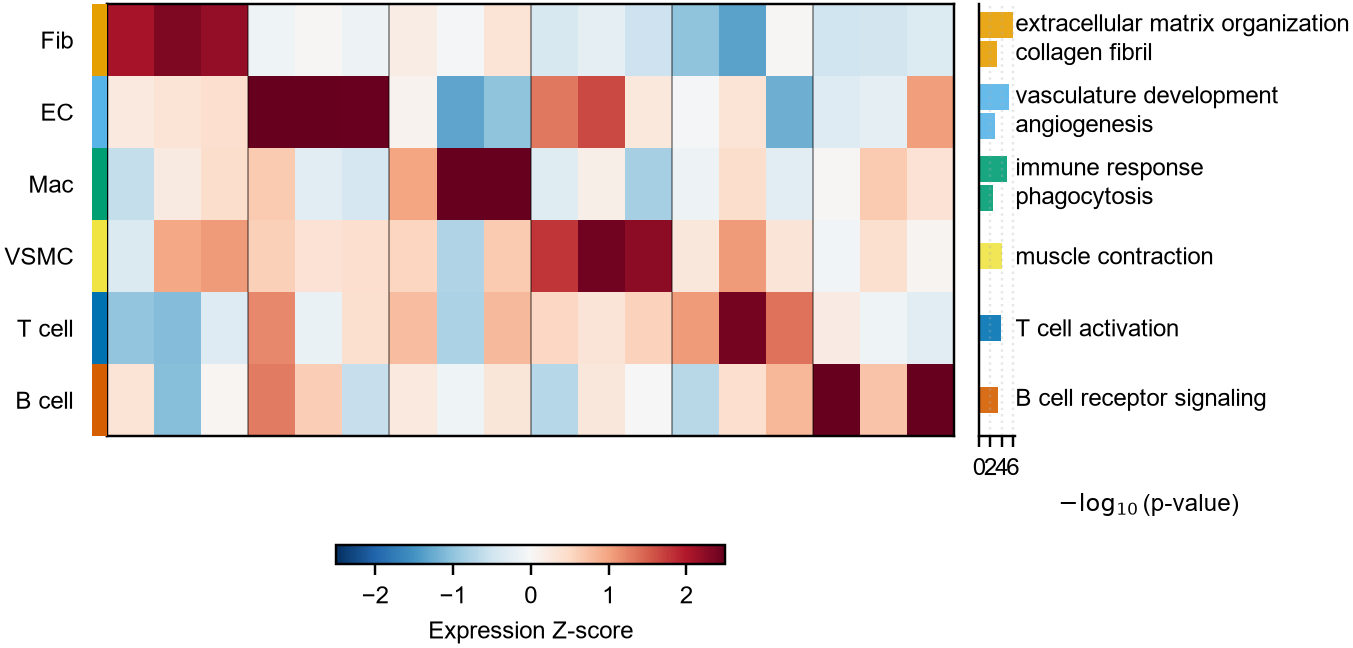
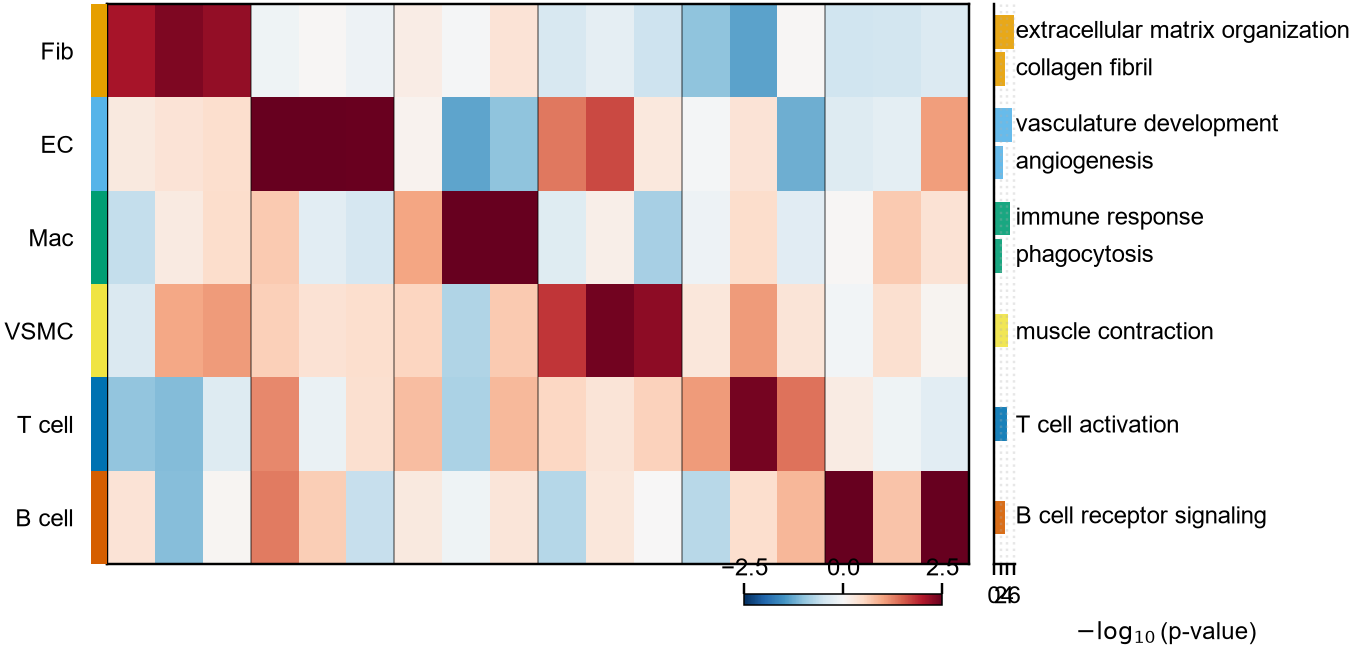
row_bars: 迷你色条(横向窄条锚热图下方, 刻度 min/0/max 条上方, in_layout=False)替换大 colorbar——不占独立列不增图宽

diff --git a/drawing_yh/heatmap/row_bars.py b/drawing_yh/heatmap/row_bars.py
@@ -218,10 +218,24 @@ def heatmap_with_row_bars(
         for x in np.cumsum(list(block_sizes))[:-1]:
             ax_heat.axvline(x - 0.5, color="k", lw=0.5, alpha=0.5)
 
-    cbar = fig.colorbar(im, ax=ax_heat, orientation="horizontal",
-                        fraction=0.045, pad=0.06, shrink=0.6)
-    cbar.set_label(cbar_label, fontsize=font)
-    cbar.ax.tick_params(labelsize=font)
+    # 迷你色条(2026-09-20 杨航): 横窄条贴右下角底缘, 无 label(caption 里说明), 刻度 min/0/max。
+    # 位置按英寸换算; 右下角通常是 -logp 刻度区, 无 term(文字在条区上方), 无冲突。
+    fw, fh = fig.get_size_inches()
+    # 锚在热图区下方右侧(与热图同列, 不进 term 区; 底缘留出 x 轴空间)
+    fig.canvas.draw()
+    _hb = ax_heat.get_window_extent(fig.canvas.get_renderer())
+    left_in = _hb.x1 / fig.dpi - 0.9
+    if left_in < _hb.x0 / fig.dpi:
+        left_in = _hb.x0 / fig.dpi
+    cbax = fig.add_axes([left_in / fw, 0.075, min(0.9, _hb.width / fig.dpi) / fw, 0.05 / fh],
+                        label="mini_cbar", in_layout=False)   # 不参与 constrained layout
+    cbar = fig.colorbar(im, cax=cbax, orientation="horizontal")
+    vmin_, vmax_ = im.get_clim()
+    ticks_ = [vmin_, 0.0, vmax_] if vmin_ < 0 < vmax_ else [vmin_, vmax_]
+    cbar.set_ticks(ticks_)
+    cbar.ax.tick_params(labelsize=font, pad=1, top=True, labeltop=True,
+                        bottom=False, labelbottom=False)   # 刻度在条上方, 不垂出底缘
+    cbar.outline.set_linewidth(0.5)
 
     if row_color_strip and colors is not None:
         trans = transforms.blended_transform_factory(ax_heat.transAxes, ax_heat.transData)
@@ -268,7 +282,7 @@ def heatmap_with_row_bars(
         ax_bars.set_ylim(ax_heat.get_ylim())
         # 单行 term 完整显示: 迭代量 renderer 实测文字 bbox, 扩 xlim 直至最长 term 右缘入界
         # (固定系数/数据换算在不同 xmax 下都不稳, 2026-09-20 三轮实测后改实测迭代)。
-        for _ in range(6):
+        for _ in range(12):
             fig.canvas.draw()
             rend = fig.canvas.get_renderer()
             ab = ax_bars.get_window_extent(rend)
